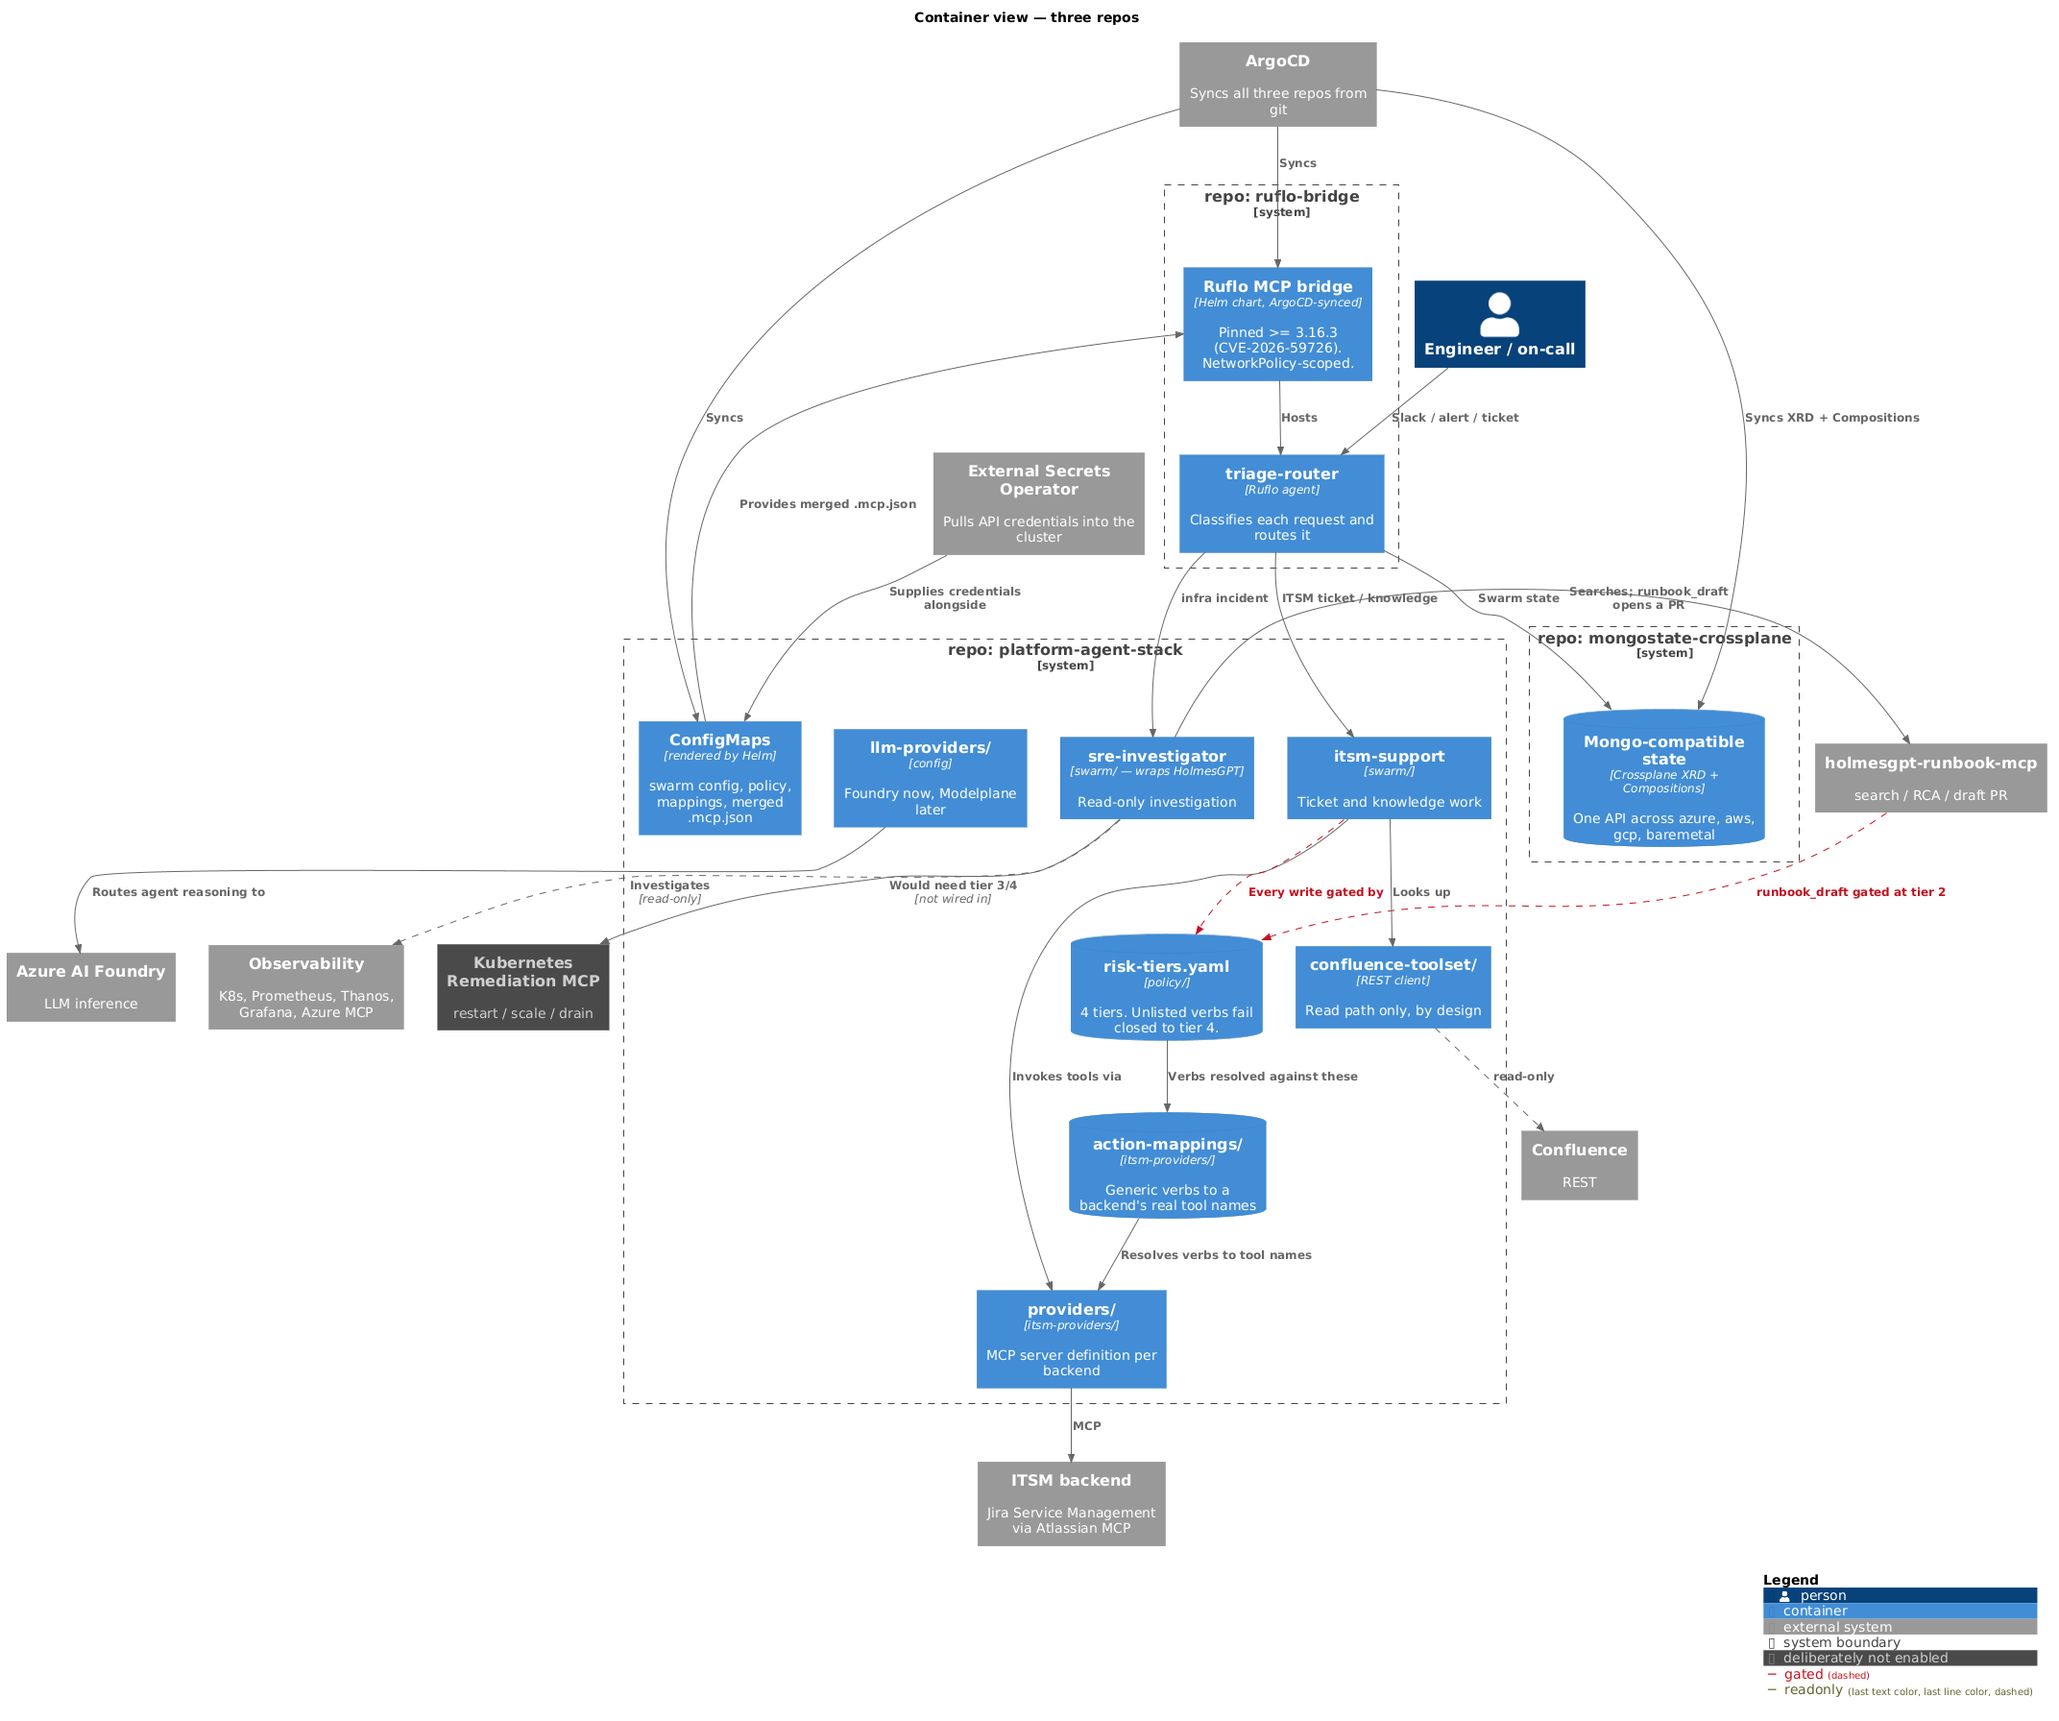
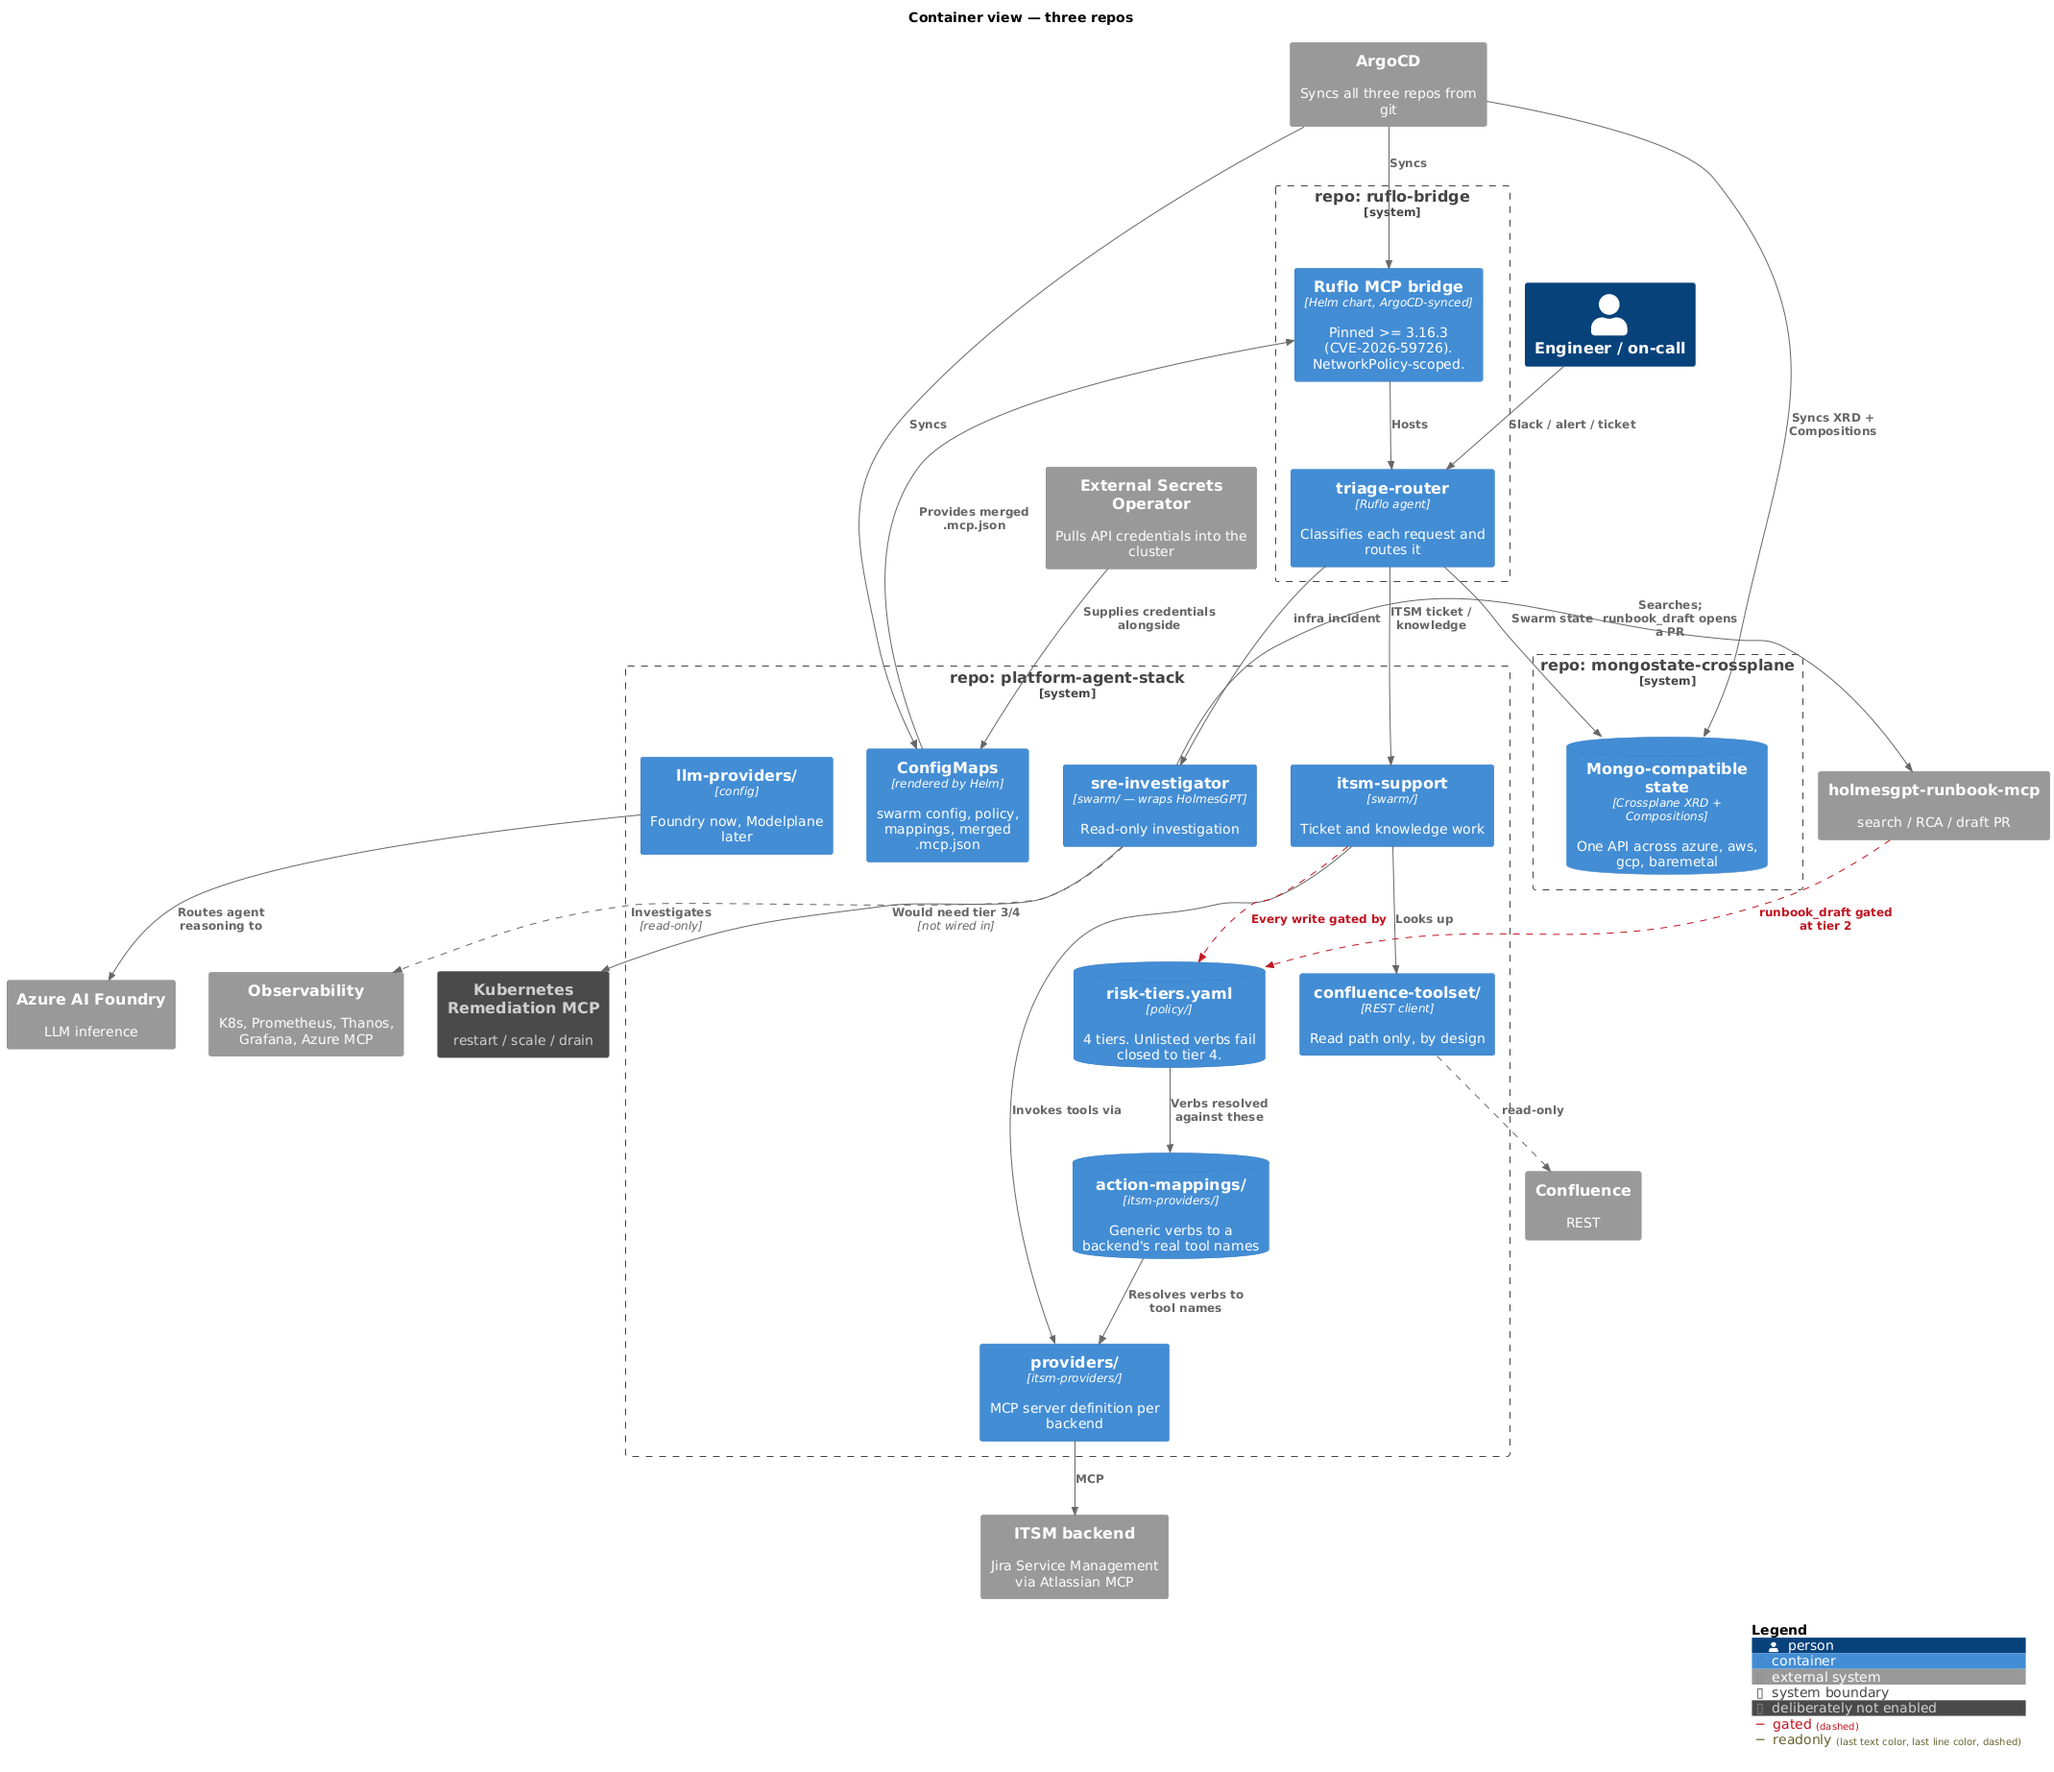
docs: render the three missing diagrams, drop the diagram-tooling preamble
Three of the five diagrams referenced by the README had no PNG committed, so
they rendered as broken images on GitHub - c4-component-bridge,
c4-dynamic-approve-reject and c4-dynamic-gated-action. The diagrams workflow is
supposed to render and commit on any docs/diagrams/**.puml change and had not,
so they are rendered and committed here directly. Worth checking why the
workflow did not fire before relying on it again.

Also removes the paragraph explaining the C4 tooling and the render pipeline. A
reader of this README wants to know what the system does; how its pictures get
built is contributor detail, and the workflow file already says it.

diff --git a/README.md b/README.md
@@ -40,17 +40,6 @@ platform-agent-stack/
 
 ## Architecture
 
-C4 model, using PlantUML's bundled C4 standard library (`!include
-<C4/C4_Context>`) so there's nothing to vendor or fetch.
-
-Source is `docs/diagrams/*.puml`; rendered PNGs land in
-`images/external/`. GitHub can't render PlantUML in markdown, so the
-images are committed — but you don't render them yourself. Push a
-`.puml` change and the `diagrams` workflow renders and commits the PNG,
-the same `plantuml/plantuml` container `markdown-pol-docs` uses.
-`docs/diagrams/render.sh` runs the identical thing locally if you want a
-preview first; it needs only docker.
-
 ### Level 1 — system context
 
 ![System context](images/external/c4-context.png)
